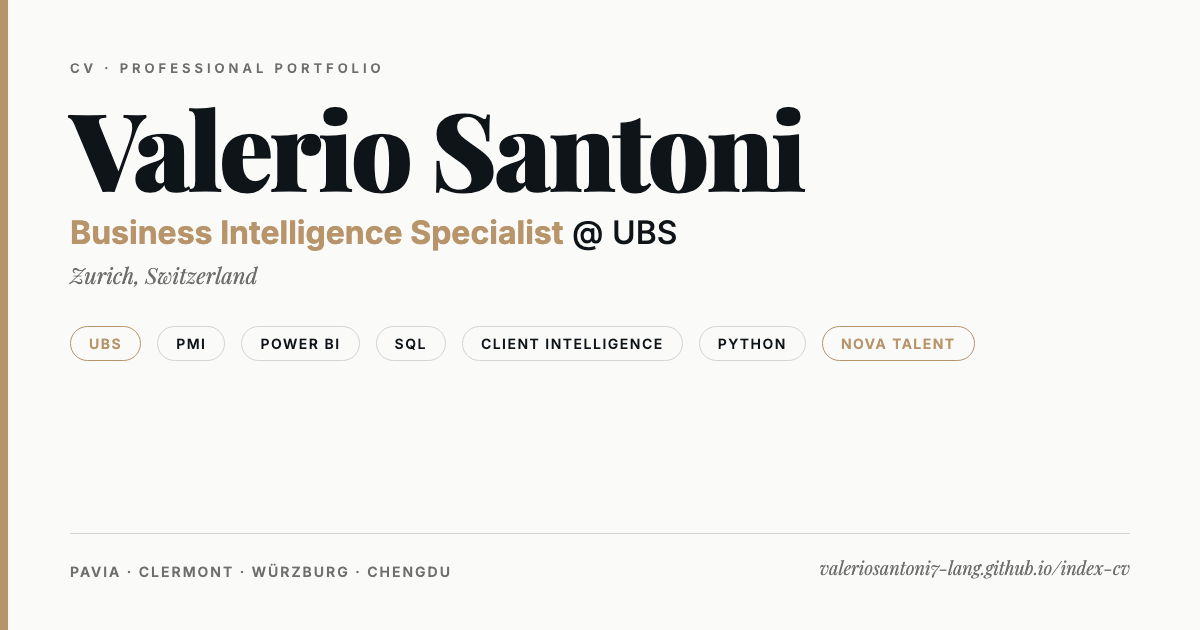
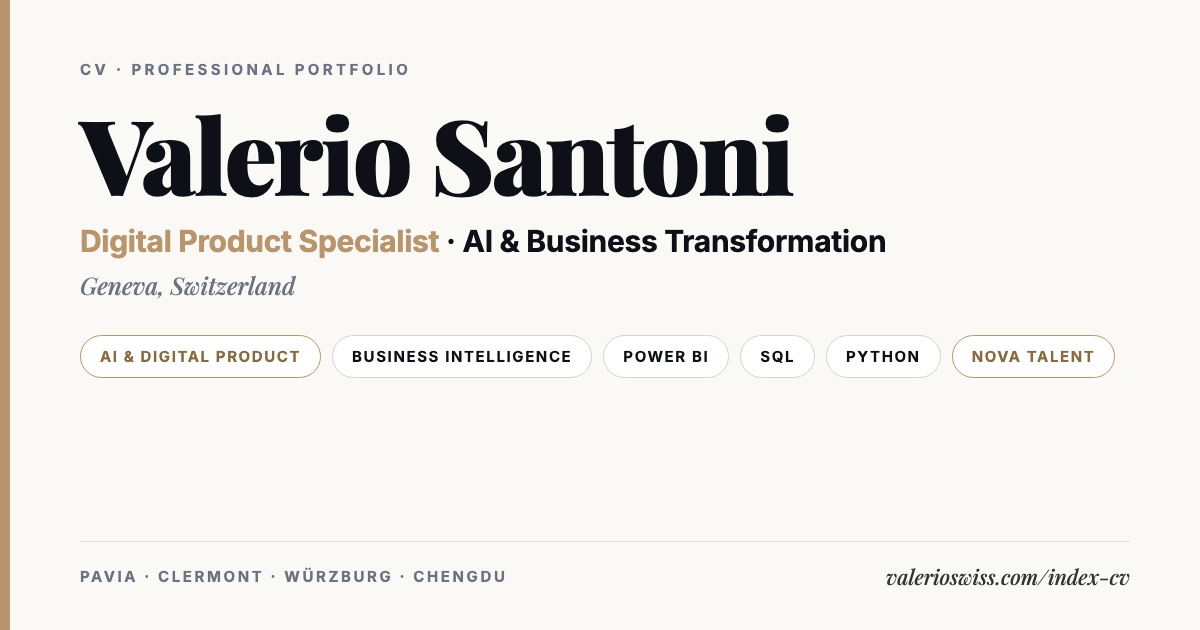
New link-preview images: coaching promise on home and blog, current role on CV pages
The previous og images still showed the old role and domain.
Cache-busted with ?v=2 so WhatsApp, LinkedIn and Linktree refetch.

diff --git a/blog/capital-gains-svizzera-2026.html b/blog/capital-gains-svizzera-2026.html
@@ -15,7 +15,7 @@
   <meta property="og:url" content="https://valerioswiss.com/blog/capital-gains-svizzera-2026.html"/>
   <meta property="og:title" content="Capital gains in Svizzera 2026: la tassazione 0% per i privati (spiegata bene)"/>
   <meta property="og:description" content="0% di tasse sulle plusvalenze per investitori privati. Ma ci sono 5 criteri da non infrangere. Guida pratica con esempi numerici e confronto Italia-CH."/>
-  <meta property="og:image" content="https://valerioswiss.com/assets/og-image.png"/>
+  <meta property="og:image" content="https://valerioswiss.com/assets/og-image.png?v=2"/>
   <meta property="og:image:width" content="1200"/>
   <meta property="og:image:height" content="630"/>
   <meta property="og:locale" content="it_IT"/>
@@ -30,7 +30,7 @@
   <meta name="twitter:card" content="summary_large_image"/>
   <meta name="twitter:title" content="Capital gains in Svizzera 2026: tassazione 0% (con condizioni)"/>
   <meta name="twitter:description" content="0% di tasse sulle plusvalenze in CH per privati. Ma a 5 criteri. Guida pratica con esempi numerici."/>
-  <meta name="twitter:image" content="https://valerioswiss.com/assets/og-image.png"/>
+  <meta name="twitter:image" content="https://valerioswiss.com/assets/og-image.png?v=2"/>
 
   <link rel="canonical" href="https://valerioswiss.com/blog/capital-gains-svizzera-2026.html"/>
   <meta name="robots" content="index, follow, max-image-preview:large"/>
@@ -46,7 +46,7 @@
         "@id": "https://valerioswiss.com/blog/capital-gains-svizzera-2026.html#article",
         "headline": "Capital gains in Svizzera 2026: come funziona la tassazione 0% per i privati",
         "description": "Guida 2026 alla tassazione delle plusvalenze in Svizzera per investitori privati italiani: regola dello 0%, criteri 'professional trader', dividendi, 3° pilastro, scambio dati CH-IT.",
-        "image": "https://valerioswiss.com/assets/og-image.png",
+        "image": "https://valerioswiss.com/assets/og-image.png?v=2",
         "datePublished": "2026-05-27",
         "dateModified": "2026-05-27",
         "author": {

diff --git a/blog/lavorare-in-svizzera-guida-2026.html b/blog/lavorare-in-svizzera-guida-2026.html
@@ -15,7 +15,7 @@
   <meta property="og:url" content="https://valerioswiss.com/blog/lavorare-in-svizzera-guida-2026.html"/>
   <meta property="og:title" content="Lavorare in Svizzera: la guida completa per italiani 2026"/>
   <meta property="og:description" content="Stipendi reali, settori che assumono, CV svizzero, permessi, roadmap 30 giorni. Da un italiano in Svizzera."/>
-  <meta property="og:image" content="https://valerioswiss.com/assets/og-image.png"/>
+  <meta property="og:image" content="https://valerioswiss.com/assets/og-image.png?v=2"/>
   <meta property="og:image:width" content="1200"/>
   <meta property="og:image:height" content="630"/>
   <meta property="og:locale" content="it_IT"/>
@@ -30,7 +30,7 @@
   <meta name="twitter:card" content="summary_large_image"/>
   <meta name="twitter:title" content="Lavorare in Svizzera: la guida completa per italiani 2026"/>
   <meta name="twitter:description" content="Stipendi reali, CV svizzero, permessi, roadmap 30 giorni. Da un italiano in Svizzera."/>
-  <meta name="twitter:image" content="https://valerioswiss.com/assets/og-image.png"/>
+  <meta name="twitter:image" content="https://valerioswiss.com/assets/og-image.png?v=2"/>
 
   <link rel="canonical" href="https://valerioswiss.com/blog/lavorare-in-svizzera-guida-2026.html"/>
   <meta name="robots" content="index, follow, max-image-preview:large"/>
@@ -46,7 +46,7 @@
         "@id": "https://valerioswiss.com/blog/lavorare-in-svizzera-guida-2026.html#article",
         "headline": "Lavorare in Svizzera: la guida completa per italiani 2026",
         "description": "Guida completa 2026 per italiani che vogliono trasferirsi in Svizzera per lavoro: stipendi reali, settori che assumono, CV svizzero, permessi, roadmap 30 giorni.",
-        "image": "https://valerioswiss.com/assets/og-image.png",
+        "image": "https://valerioswiss.com/assets/og-image.png?v=2",
         "datePublished": "2026-05-17",
         "dateModified": "2026-09-18",
         "author": {

diff --git a/index.html b/index.html
@@ -9,7 +9,7 @@
   <meta name="keywords" content="lavorare in svizzera, italiani zurigo, neolaureati svizzera, coaching carriera svizzera, CV svizzero, trasferirsi in svizzera, valerio swiss, stipendi svizzera, lavoro ginevra, lavoro zurigo, permesso B svizzera"/>
   <meta property="og:title" content="Coaching Italia → Svizzera · Valerio Santoni"/>
   <meta property="og:description" content="Aiuto neolaureati italiani a trasferirsi in Svizzera per lavoro. Coaching 1:1 + guida gratuita + risorse pratiche."/>
-  <meta property="og:image" content="https://valerioswiss.com/assets/og-image.png"/>
+  <meta property="og:image" content="https://valerioswiss.com/assets/og-image.png?v=2"/>
   <meta property="og:image:width" content="1200"/>
   <meta property="og:image:height" content="630"/>
   <meta property="og:image:alt" content="Valerio Santoni · Coaching per italiani in Svizzera"/>
@@ -22,7 +22,7 @@
   <meta name="twitter:card" content="summary_large_image"/>
   <meta name="twitter:title" content="Coaching Italia → Svizzera · Valerio Santoni"/>
   <meta name="twitter:description" content="Aiuto neolaureati italiani a trasferirsi in Svizzera. Coaching 1:1 + guida gratuita."/>
-  <meta name="twitter:image" content="https://valerioswiss.com/assets/og-image.png"/>
+  <meta name="twitter:image" content="https://valerioswiss.com/assets/og-image.png?v=2"/>
   <meta name="twitter:image:alt" content="Valerio Santoni, Coaching Italia → Svizzera"/>
   <link rel="canonical" href="https://valerioswiss.com/"/>
   <meta property="og:url" content="https://valerioswiss.com/"/>

diff --git a/index-cv.html b/index-cv.html
@@ -11,7 +11,7 @@
   <!-- Open Graph -->
   <meta property="og:title" content="Valerio Santoni · CV · Digital Product &amp; AI"/>
   <meta property="og:description" content="Digital Product Specialist · AI &amp; Business Transformation. Background in BI and client data: Power BI, SQL, data governance. Double-degree graduate. Nova Talent."/>
-  <meta property="og:image" content="https://valerioswiss.com/assets/og-image-cv.png"/>
+  <meta property="og:image" content="https://valerioswiss.com/assets/og-image-cv.png?v=2"/>
   <meta property="og:image:width" content="1200"/>
   <meta property="og:image:height" content="630"/>
   <meta property="og:image:alt" content="Valerio Santoni · Professional CV"/>
@@ -26,7 +26,7 @@
   <meta name="twitter:card" content="summary_large_image"/>
   <meta name="twitter:title" content="Valerio Santoni · CV · Business Intelligence &amp; Data"/>
   <meta name="twitter:description" content="Business Intelligence Specialist · Client Intelligence · Power BI · SQL · Nova Talent."/>
-  <meta name="twitter:image" content="https://valerioswiss.com/assets/og-image-cv.png"/>
+  <meta name="twitter:image" content="https://valerioswiss.com/assets/og-image-cv.png?v=2"/>
 
   <link rel="canonical" href="https://valerioswiss.com/index-cv.html"/>
   <meta property="og:url" content="https://valerioswiss.com/index-cv.html"/>

diff --git a/cv.html b/cv.html
@@ -15,7 +15,7 @@
   <meta property="og:url" content="https://valerioswiss.com/cv.html"/>
   <meta property="og:title" content="Valerio Santoni · CV · Digital Product &amp; AI"/>
   <meta property="og:description" content="Power BI · SQL · ETL · Client Intelligence. Double-degree Master's. Nova Talent. CV completo + download PDF."/>
-  <meta property="og:image" content="https://valerioswiss.com/assets/og-image-cv.png"/>
+  <meta property="og:image" content="https://valerioswiss.com/assets/og-image-cv.png?v=2"/>
   <meta property="og:image:width" content="1200"/>
   <meta property="og:image:height" content="630"/>
   <meta property="og:locale" content="en_US"/>
@@ -28,7 +28,7 @@
   <meta name="twitter:card" content="summary_large_image"/>
   <meta name="twitter:title" content="Valerio Santoni · CV · Digital Product &amp; AI"/>
   <meta name="twitter:description" content="Power BI · SQL · ETL. Double-degree Master's. Nova Talent."/>
-  <meta name="twitter:image" content="https://valerioswiss.com/assets/og-image-cv.png"/>
+  <meta name="twitter:image" content="https://valerioswiss.com/assets/og-image-cv.png?v=2"/>
 
   <link rel="canonical" href="https://valerioswiss.com/cv.html"/>
   <link rel="alternate" hreflang="en" href="https://valerioswiss.com/cv.html"/>

diff --git a/blog/index.html b/blog/index.html
@@ -11,7 +11,7 @@
   <meta property="og:url" content="https://valerioswiss.com/blog/"/>
   <meta property="og:title" content="Blog · Valerio Santoni, Lavorare in Svizzera"/>
   <meta property="og:description" content="Guide e articoli per italiani in Svizzera. Stipendi, CV, fiscalità, investimenti."/>
-  <meta property="og:image" content="https://valerioswiss.com/assets/og-image.png"/>
+  <meta property="og:image" content="https://valerioswiss.com/assets/og-image.png?v=2"/>
   <meta property="og:locale" content="it_IT"/>
 
   <link rel="canonical" href="https://valerioswiss.com/blog/"/>
